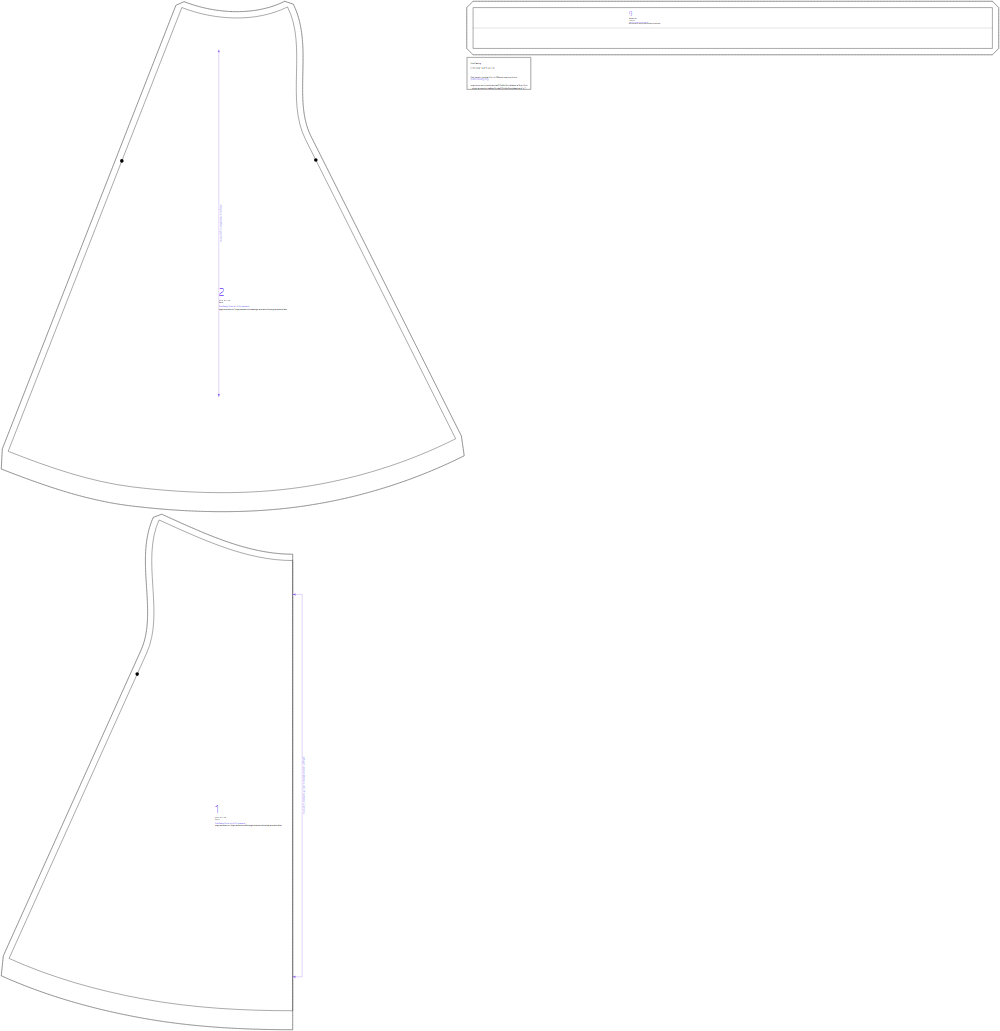
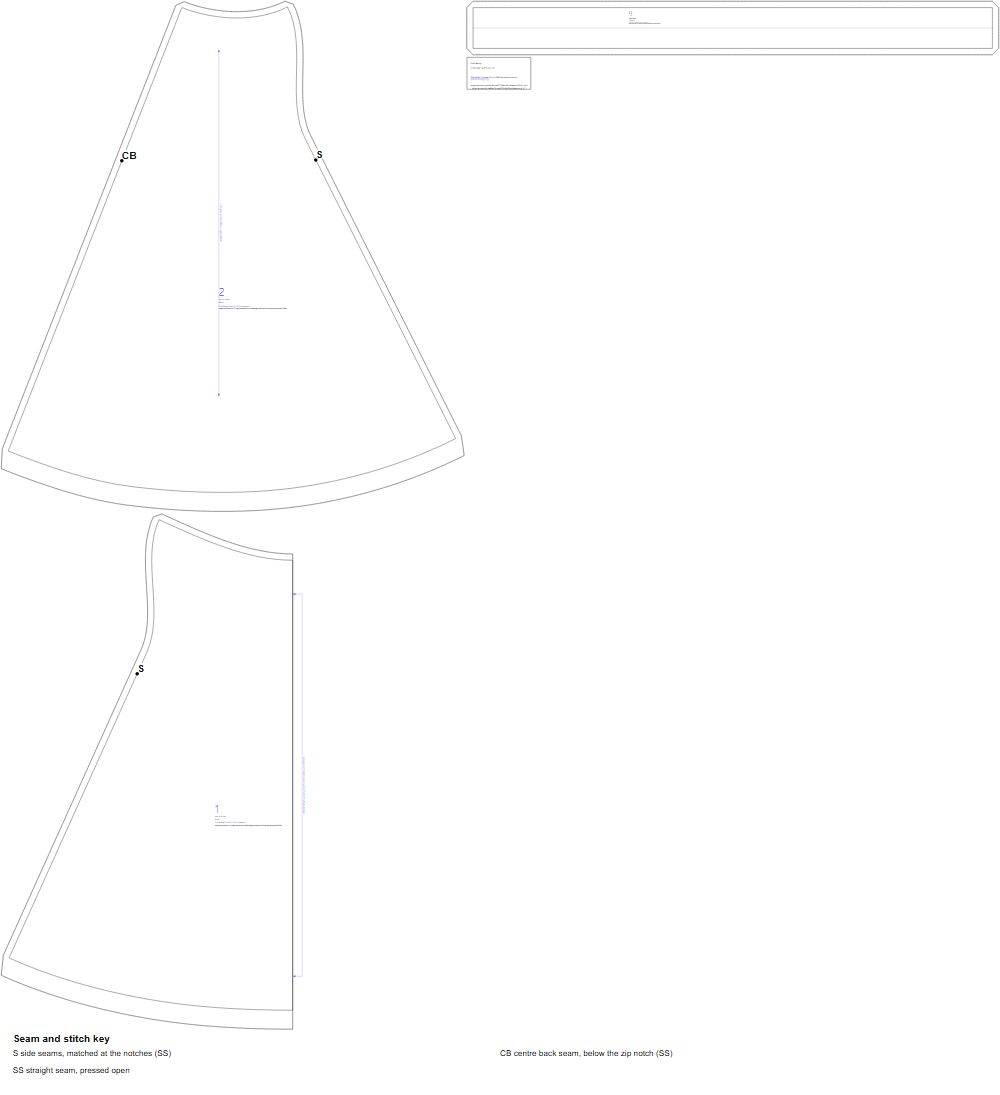
Map the circular skirt and culottes

diff --git a/designs/circular-skirt/BRIEF.md b/designs/circular-skirt/BRIEF.md
@@ -72,11 +72,13 @@ against the 47 measured off p. 113, the waists 6.2 and 7.1 in against his 6¼ an
 Front (on the fold), back (cut 2, CB seam), waistband.
 
 ## Construction
-1. Let the pieces hang for a day: much of the seams and hem lies on the bias.
-2. CB seam below the zip, then the zip.
-3. Side seams, matching the notches.
-4. Waistband.
-5. Level the hem on the wearer if the bias has dropped, then hem, easing the fullness in.
+Letters are the seam codes on the pattern map; numbers are printed on the pieces. **SS** straight seam pressed open.
+
+1. Let the front **1** and back **2** hang for a day: much of the seams and hem lies on the bias.
+2. Sew the centre back seam **CB** of the back **2** below the zip, then the zip.
+3. Sew the side seams **S** of the front **1** and back **2**, matching the notches.
+4. Sew the waistband **9**.
+5. Level the hem of the front **1** and back **2** on the wearer if the bias has dropped, then hem, easing the fullness in.
 
 ## Checks
 `test/circular-skirt.test.mjs`: every size; the default, the wide variant, no spread at a short length, and

diff --git a/designs/culottes/BRIEF.md b/designs/culottes/BRIEF.md
@@ -44,6 +44,8 @@ based on a skirt foundation pattern."
 Front (cut 2), back (cut 2), waistband.
 
 ## Construction
-1. CB seam from the zip's notch to the crotch; zip; CF seam to the crotch.
-2. Side seams; inseams in one, crotch to hem on each leg.
-3. Waistband; hem.
+Letters are the seam codes on the pattern map; numbers are printed on the pieces. **SS** straight seam pressed open.
+
+1. Sew the centre back seam **CB** of the back **2** from the zip's notch to the crotch; set the zip; sew the centre front seam of the front **1** to the crotch.
+2. Sew the side seams **S** of the front **1** and back **2**, then the inseams **I** in one, crotch to hem on each leg.
+3. Sew the waistband **9**; hem the front **1** and back **2**.
